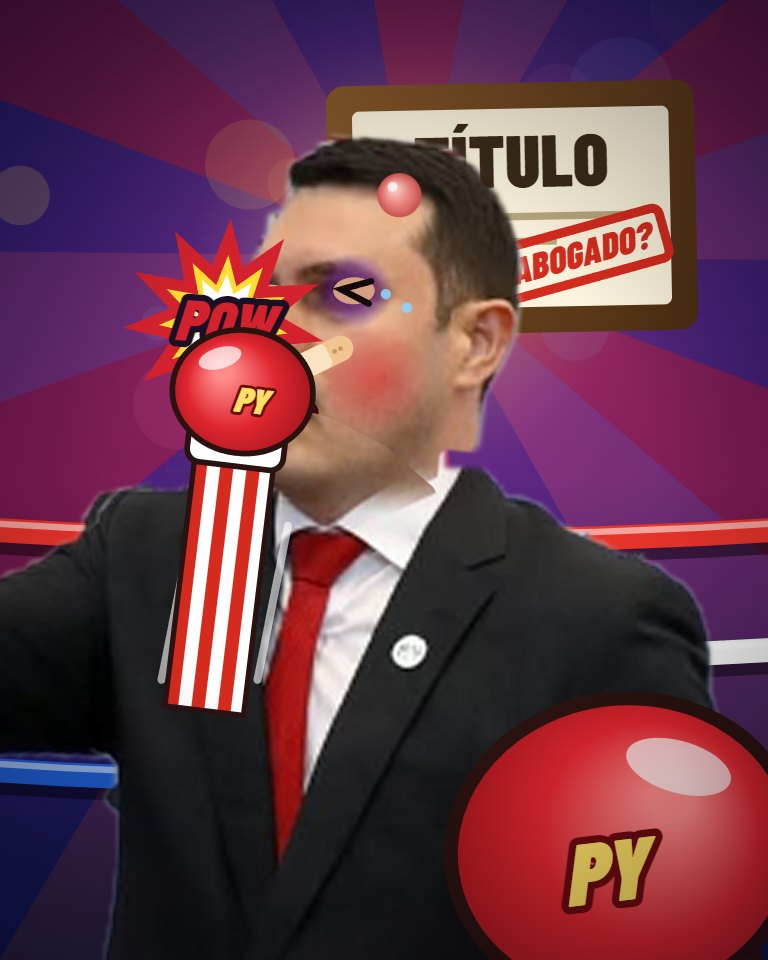
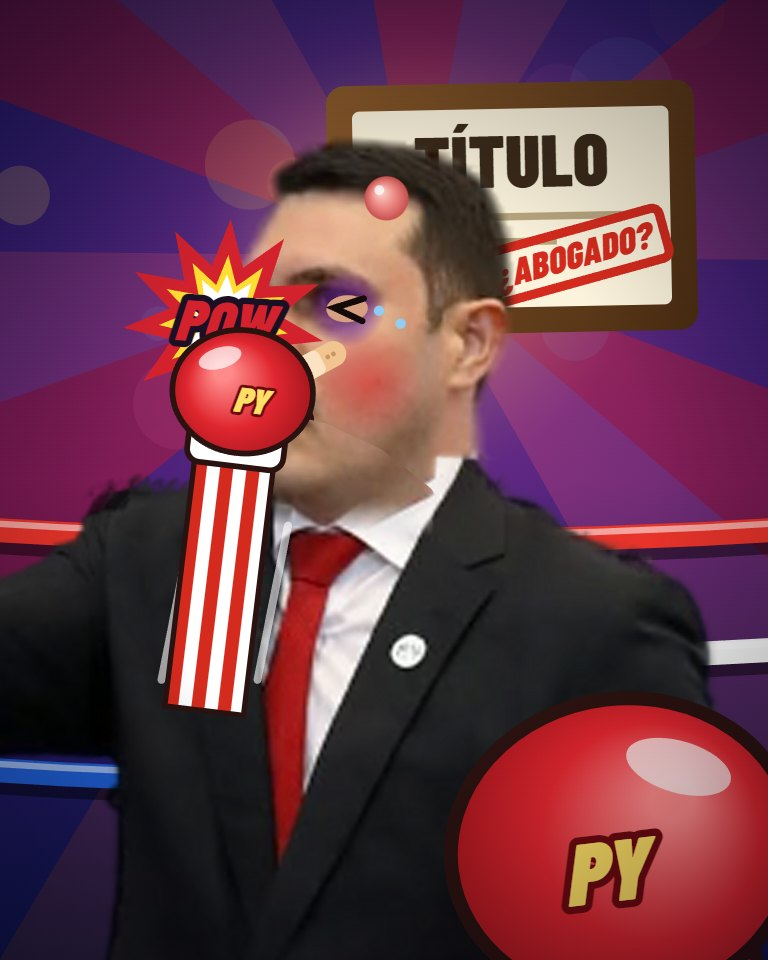
feat: recut Hernán with person matting and give him more life
Replace the GrabCut cut-out with an isnet person matte (clean edges, full hand),
add a stretching neck so head knock-back never shows a seam, and animate him
more: roaming sway, talking bounce, nod/tilt, shrugs and four arm gestures.
He now says his signature lines while taunting.

diff --git a/src/abogado/render.ts b/src/abogado/render.ts
@@ -24,13 +24,13 @@ type Pt = { x: number; y: number };
 export const PHOTO = {
   k: 0.4,
   hc: { x: 322, y: 140 },
-  head: { src: "/abogado/rivas/head.png", x: 268, y: 72, w: 117, h: 128 },
+  head: { src: "/abogado/rivas/head.png", x: 268, y: 72, w: 122, h: 128 },
   body: { src: "/abogado/rivas/body.png", x: 236, y: 176, w: 244, h: 280 },
-  arm: { src: "/abogado/rivas/arm.png", x: 40, y: 190, w: 238, h: 110 },
+  arm: { src: "/abogado/rivas/arm.png", x: 0, y: 180, w: 278, h: 120 },
   neck: { x: 325, y: 194 },
   shoulder: { x: 262, y: 228 },
-  eyeL: { x: 295, y: 136 },
-  eyeR: { x: 321, y: 131 },
+  eyeL: { x: 296, y: 139 },
+  eyeR: { x: 322, y: 135 },
   mouth: { x: 301, y: 167 },
   cheek: { x: 330, y: 158 },
   forehead: { x: 332, y: 100 },
@@ -318,7 +318,16 @@ function armAngle(w: World, mood: Mood) {
   const t = w.t;
   switch (mood) {
     case "taunt":
-      return 0.42 + Math.sin(t * 10) * 0.14;
+      switch (w.gesture) {
+        case 1: // fist pump
+          return 0.95 + Math.abs(Math.sin(t * 9)) * 0.35;
+        case 2: // wagging "callate"
+          return 0.12 + Math.sin(t * 14) * 0.22;
+        case 3: // arm straight up
+          return 1.45 + Math.sin(t * 5) * 0.08;
+        default: // friendly wave
+          return 0.42 + Math.sin(t * 10) * 0.18;
+      }
     case "block":
       return 1.25;
     case "throw":
@@ -570,10 +579,20 @@ function drawCharacter(w: World, c: Ctx, art: Art) {
   const breathe = Math.sin(t * 2.3) * 0.012;
   const sq = w.squash.v;
 
+  const talking = mood === "taunt";
+  const bounce = talking ? -Math.abs(Math.sin(t * 6)) * 2.2 : 0;
+  const sway = Math.sin(t * 1.1) * 0.025 + (talking ? Math.sin(t * 6) * 0.03 : 0);
+  const shrug = talking && w.gesture === 2 ? Math.abs(Math.sin(t * 7)) * 0.03 : 0;
+  // Idle head life: slow nod and tilt on top of the hit springs.
+  const nod = Math.sin(t * 2.6) * 1.6 + (talking ? Math.sin(t * 12) * 1.4 : 0);
+  const tilt = Math.sin(t * 1.3) * 0.05 + (talking ? Math.sin(t * 5) * 0.06 : 0);
+
   c.save();
-  c.translate(L.cx, L.headY);
+  c.translate(L.cx, L.headY + 70 + bounce);
+  c.rotate(sway);
+  c.translate(0, -70);
   if (L.fall) c.rotate(-L.fall * 0.32);
-  c.scale(k * (1 + sq * 0.012), k * (1 + breathe - sq * 0.012));
+  c.scale(k * (1 + sq * 0.012), k * (1 + breathe + shrug - sq * 0.012));
   c.translate(-hc.x, -hc.y);
 
   // Oath arm (behind the torso), pivoting at the shoulder
@@ -584,13 +603,28 @@ function drawCharacter(w: World, c: Ctx, art: Art) {
   c.drawImage(art.arm, arm.x, arm.y, arm.w, arm.h);
   c.restore();
 
+  // Neck that stretches between the collar and the (moving) head
+  const hx = w.headX.v / k;
+  const hy = w.headY.v / k + nod;
+  const neckGrad = c.createLinearGradient(300, 0, 350, 0);
+  neckGrad.addColorStop(0, "#c98f74");
+  neckGrad.addColorStop(1, "#9c6450");
+  c.fillStyle = neckGrad;
+  c.beginPath();
+  c.moveTo(302, 196);
+  c.lineTo(348, 196);
+  c.lineTo(348 + hx, 168 + hy);
+  c.lineTo(302 + hx, 168 + hy);
+  c.closePath();
+  c.fill();
+
   c.drawImage(art.body, body.x, body.y, body.w, body.h);
 
   // Head on a spring, pivoting at the neck
   c.save();
-  c.translate(w.headX.v / k, w.headY.v / k);
+  c.translate(hx, hy);
   c.translate(neck.x, neck.y);
-  c.rotate(w.headR.v * 0.07 + (mood === "ko" ? L.fall * 0.35 : 0));
+  c.rotate(w.headR.v * 0.07 + tilt + (mood === "ko" ? L.fall * 0.35 : 0));
   const sqH = w.squash.v * 0.03;
   c.scale(1 + sqH * 0.7, 1 - sqH);
   c.transform(1, 0, Math.max(-0.35, Math.min(0.35, w.headX.vel * 0.0006)), 1, 0, 0);

diff --git a/src/abogado/engine.ts b/src/abogado/engine.ts
@@ -90,6 +90,13 @@ const TAUNTS = [
   "¡Soy doctor en derecho!",
   "¡Mi título es original!",
 ];
+/** Signature lines, each with the arm gesture that sells it (see render armAngle). */
+const SIGNATURE: { text: string; gesture: number }[] = [
+  { text: "¡Cartes es mi amigo!", gesture: 0 },
+  { text: "¡Santi me puso acá, callate!", gesture: 2 },
+  { text: "¡La Sudamericana es la mejor!", gesture: 1 },
+  { text: "¡Kattya es mala!", gesture: 3 },
+];
 const HURT = ["¡Ay!", "¡Mi título!", "¡Protesto!", "¡No vale!", "¡Auch!", "¡Mi traje!"];
 const BLOCK = ["¡Objeción!", "¡No ha lugar!"];
 const GETUP = ["¡Apelo!", "¡Recurso de amparo!", "¡Nulidad!", "¡A la Corte!"];
@@ -168,6 +175,9 @@ export type World = {
   trial: Weapon | null;
   trialsLeft: Partial<Record<Weapon, number>>;
   owned: Weapon[];
+  /** Arm gesture while taunting: 0 wave, 1 fist pump, 2 finger wag, 3 arm up. */
+  gesture: number;
+  signatureIndex: number;
   wet: number;
   score: number;
   combo: number;
@@ -239,6 +249,8 @@ export function createWorld(opts: {
       PAID_WEAPONS.filter((id) => !owned.includes(id)).map((id) => [id, 1]),
     ),
     owned,
+    gesture: 0,
+    signatureIndex: 0,
     wet: 0,
     score: 0,
     combo: 0,
@@ -723,8 +735,17 @@ function ai(w: World) {
       dur: Math.max(1.15, 1.9 - w.round * 0.12),
     });
   } else if (r < 0.45 || w.demo) {
-    setMood(w, "taunt", 1.7);
-    say(w, pick(TAUNTS), 1.7);
+    setMood(w, "taunt", 2.1);
+    // Cycle through the signature lines so every match hears all of them.
+    if (Math.random() < 0.6) {
+      const line = SIGNATURE[w.signatureIndex % SIGNATURE.length];
+      w.signatureIndex++;
+      w.gesture = line.gesture;
+      say(w, line.text, 2.1);
+    } else {
+      w.gesture = Math.floor(Math.random() * 4);
+      say(w, pick(TAUNTS), 2);
+    }
   } else {
     setMood(w, "block", 1 + Math.random() * 0.7);
     if (Math.random() < 0.4) say(w, pick(BLOCK), 1);
@@ -787,7 +808,9 @@ export function step(w: World, dt: number) {
   } else if (w.mood !== "ko" && w.mood !== "idle" && w.t >= w.moodUntil) {
     w.mood = "idle";
   }
-  if (w.mood === "idle" || w.mood === "taunt") w.leanTarget = Math.sin(w.t * 1.4) * 3;
+  // He never stands still: a slow roam across the ring, a little dance while he talks.
+  if (w.mood === "idle") w.leanTarget = Math.sin(w.t * 0.8) * 9 + Math.sin(w.t * 2.1) * 2;
+  if (w.mood === "taunt") w.leanTarget = Math.sin(w.t * 0.8) * 9 + Math.sin(w.t * 6) * 4;
   if (w.mood === "hurt" || w.mood === "dizzy" || w.mood === "block") w.leanTarget = 0;
   if (w.mood === "dizzy") w.leanTarget = Math.sin(w.t * 5) * 6;
   if (!w.ended) ai(w);
